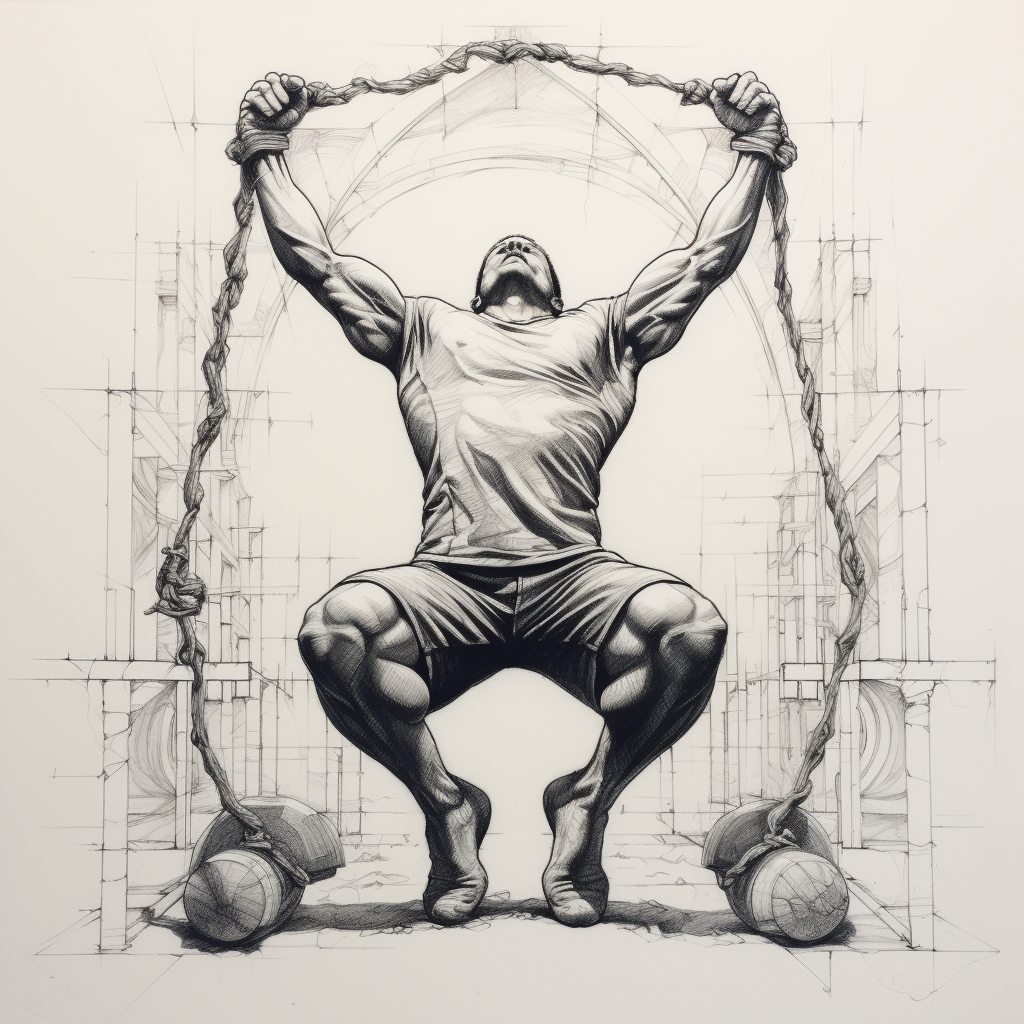
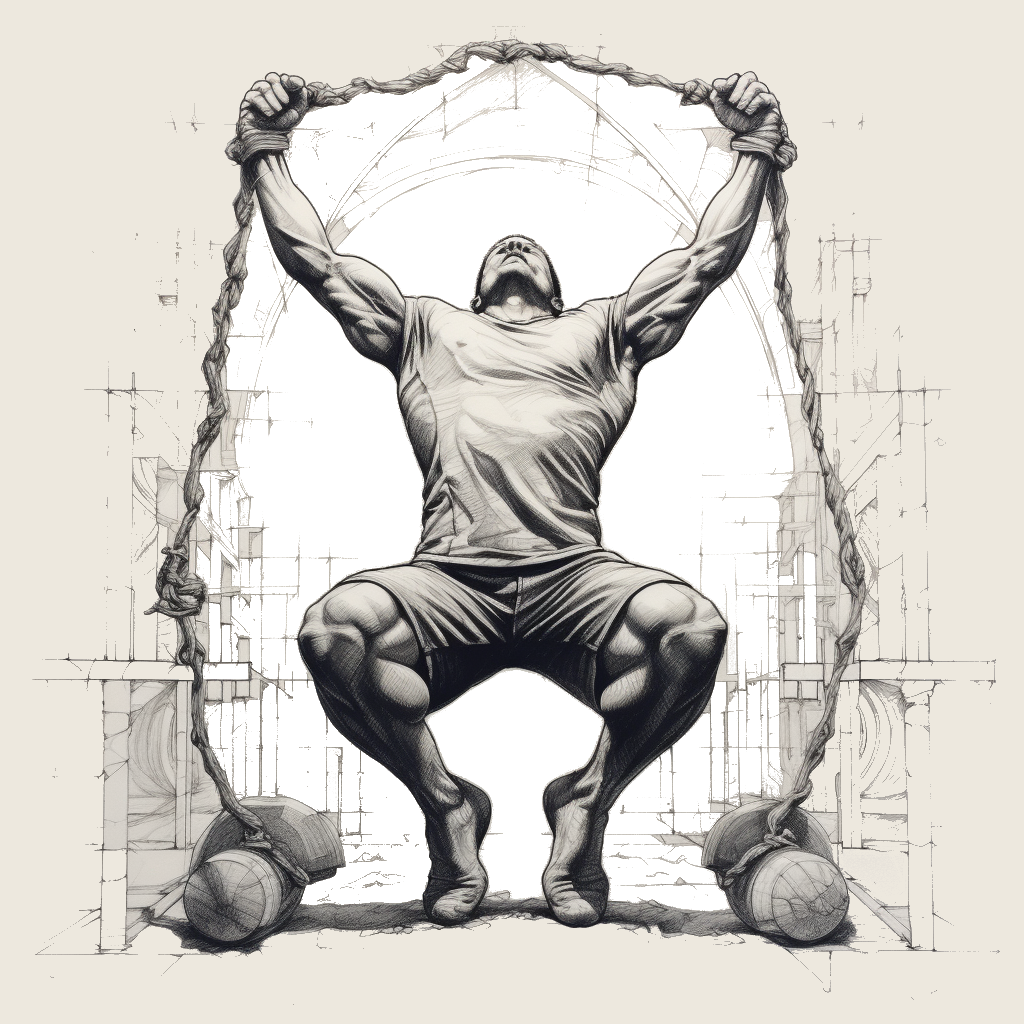
Update the picture for signin, Update the boxing for the signin, Add general Button and general text.

diff --git a/calitimerlog/screens/signUp/signin.tsx b/calitimerlog/screens/signUp/signin.tsx
@@ -1,0 +1,82 @@
+import { text } from 'express';
+import React from 'react';
+import { 
+  View,
+  Text,
+
+  StyleSheet,
+  ViewStyle as RNViewStyle,
+  ImageBackground, useWindowDimensions
+} from 'react-native';
+     
+
+interface ViewStyle extends RNViewStyle{
+  width?: number | string;
+  height?: number | string;
+}
+
+const SignIn = () => {
+    type Styles = {
+        container: ViewStyle;
+        separator: ViewStyle;
+        image: ViewStyle;
+        box: ViewStyle;
+        text: any;
+    }
+
+
+    const window = useWindowDimensions();
+
+    const styles = StyleSheet.create({
+        image: {
+          display: 'flex',
+          flexDirection: 'column',
+          justifyContent: 'center',
+          resizeMode: 'cover',
+          width: window.width,
+          height: window.height,
+        },
+        box: {
+          display:'flex',
+          flexDirection: 'column',
+          justifyContent: 'center',
+          width:'100#',
+          height:'80%',
+          backgroundColor: '#8F7B6A',
+          borderRadius: 10,
+          marginRight: 10,
+          marginLeft:10,
+          opacity: 0.5
+        },
+        separator: {
+          marginVertical: 8,
+          borderBottomColor: '#737373',
+          borderBottomWidth: StyleSheet.hairlineWidth,
+      },
+      text: {
+        fontSize: 22,
+        textAlign:'center',
+        opacity: 1
+      }
+    }) 
+
+    const Separator = () => (
+      <View style={styles.separator} />
+    )
+
+
+
+
+
+    return (
+        <ImageBackground source={require('./images/rocky.png')} style={styles.image}>
+            <View style={styles.box}>
+              <Text style={styles.text}>Loading</Text>
+              <Separator/>
+              <Text style={styles.text}>Loading</Text>
+            </View>
+        </ImageBackground>
+    );
+}
+
+export default SignIn;

diff --git a/calitimerlog/screens/loading/loading.tsx b/calitimerlog/screens/loading/loading.tsx
@@ -1,13 +1,14 @@
 import React, {useEffect} from "react";
 import {View, StyleSheet, ImageBackground, ViewStyle, Dimensions, ActivityIndicator} from "react-native";
 
+
 type Styles = {
   container: ViewStyle,
   imageBackground: ViewStyle
 }
 
 type LoadingScreenProps = {
-  navigation: object;
+  navigation: any;
 }
 
 const styles = StyleSheet.create<Styles>({
@@ -17,11 +18,11 @@ const styles = StyleSheet.create<Styles>({
     display: "flex",
     alignItems: "center",
     justifyContent: "center",
-    backgroundColor: "#e4dfcd",
+    backgroundColor: "#ede8de",
   },
   imageBackground: {
-    width: 200, 
-    height: 200, 
+    width: 400, 
+    height: 400, 
     resizeMode: "cover",
     justifyContent: "center"
   }
@@ -33,14 +34,14 @@ const styles = StyleSheet.create<Styles>({
 const LoadingScreen: React.FC<LoadingScreenProps> = ({navigation}) => {
   useEffect (() => {
     const timer = setTimeout(() => {
-      navigation.replace("SignUp");
+      navigation.replace('SignIn');
     }, 3000);
-    }, [navigation])
+  }, [navigation])
   
 
   return(
   <View style={styles.container}>
-    <ImageBackground source={require("./mainLoading/maybelogooo.png")} style={styles.imageBackground}/>
+    <ImageBackground source={require("./mainLoading/stringLoad.png")} style={styles.imageBackground}/>
   </View>
   );
 }

diff --git a/calitimerlog/App.tsx b/calitimerlog/App.tsx
@@ -4,8 +4,7 @@ import {createStackNavigator} from "@react-navigation/stack";
 import { StatusBar } from "expo-status-bar";
 
 
-
-import SignUp from "./screens/signUp/signup";
+import SignIn from "./screens/signUp/signin";
 import LoadingScreen from "./screens/loading/loading";
 
 const Stack = createStackNavigator();
@@ -21,7 +20,7 @@ const App = () => {
         }
       >
         <Stack.Screen name="Loading" component={LoadingScreen} />
-        <Stack.Screen name="SignUp" component={SignUp} />
+        <Stack.Screen name="SignIn" component={SignIn} />
       </Stack.Navigator>
       <StatusBar style="auto" />
     </NavigationContainer>

diff --git a/calitimerlog/universal-components/generalButton1.tsx b/calitimerlog/universal-components/generalButton1.tsx
@@ -1,0 +1,33 @@
+import React from 'react';
+import {
+  StyleSheet,
+  Button,
+  View,
+  ViewStyle,
+  SafeAreaView,
+  Text,
+  Alert,
+} from 'react-native';
+
+type Styles = {
+    separator: ViewStyle;
+}
+
+const styles = StyleSheet.create<Styles>({
+    separator: {
+        marginVertical: 8,
+        borderBottomColor: '#737373',
+        borderBottomWidth: StyleSheet.hairlineWidth,
+    },
+})
+
+
+const GeneralButton = () => {
+    
+}
+
+
+
+const Separator = () => (
+  <View style={styles.separator} />
+)

diff --git a/calitimerlog/universal-components/textInput.tsx b/calitimerlog/universal-components/textInput.tsx
@@ -1,0 +1,4 @@
+import React from 'react';
+import { TextInput, StyleSheet, SafeAreaView} from 'react-native';
+
+
